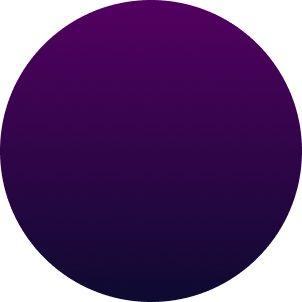
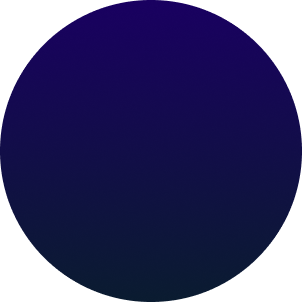
Redesign-using-React-Bootstrap

diff --git a/src/components/auth/Register.jsx b/src/components/auth/Register.jsx
@@ -28,7 +28,16 @@ const Register = () => {
 
   return (
     <div className="d-flex vh-100 main-div1 main-div4">
-      <>
+      <div>
+        <img className="main-div12" src="/images/Ellipse1.png" alt="Circle" />
+      </div>
+      <div>
+        <img className="main-div13" src="/images/Ellipse2.png" alt="Circle" />
+      </div>
+      <div>
+        <img className="main-div10" src="/images/RolltheCarpet.png" alt="Rollthecarpet" />
+      </div>
+      {/* <>
         <div>
           <img
             src="/images/singupmain2.JPG"
@@ -36,16 +45,16 @@ const Register = () => {
             alt="signup"
           />
         </div>
-      </>
-      <div className="border border-black p-5  flex-column align-items-center main-div5">
-        <div className="text-center fs-2 mb-3 text-black">
+      </> */}
+      <div className="border border-white p-5  flex-column align-items-center main-div5">
+        <div className="text-center fs-2 mb-3 text-white">
           SignUp Your Account
         </div>
         <Form onSubmit={handleSubmit(onSubmit)} className="w-100 mt-4">
           <Form.Group controlId="name">
-            <Form.Label className="mt-2">Full Name</Form.Label>
+            <Form.Label className="mt-2 text-white">Full Name</Form.Label>
             <Form.Control
-              className="mt-0"
+              className="mt-0 bg-transparent placeholder-text-color"
               {...register("name", {
                 required: "Please enter your full name",
                 pattern: {
@@ -54,7 +63,7 @@ const Register = () => {
                 },
               })}
               type="text"
-              placeholder="Enter Your Full Name"
+              placeholder="Full Name"
             />
             {errors.name && (
               <span className="text-danger text-left">
@@ -64,9 +73,9 @@ const Register = () => {
           </Form.Group>
 
           <Form.Group controlId="email">
-            <Form.Label className="mt-3">Email</Form.Label>
+            <Form.Label className="mt-3 text-white">Email</Form.Label>
             <Form.Control
-              className="mt-0"
+              className="mt-0 bg-transparent placeholder-text-color"
               {...register("email", {
                 required: "Please enter your email",
                 pattern: {
@@ -76,7 +85,7 @@ const Register = () => {
                 },
               })}
               type="email"
-              placeholder="Enter Your Email"
+              placeholder="Email"
             />
             {errors.email && (
               <span className="text-danger text-left">
@@ -86,9 +95,9 @@ const Register = () => {
           </Form.Group>
 
           <Form.Group controlId="password">
-            <Form.Label className="mt-3 ">Password</Form.Label>
+            <Form.Label className="mt-3 text-white ">Password</Form.Label>
             <Form.Control
-              className="mt-0"
+              className="mt-0 bg-transparent placeholder-text-color"
               {...register("password", {
                 required: "Please enter your password",
                 minLength: {
@@ -105,7 +114,7 @@ const Register = () => {
                 },
               })}
               type="password"
-              placeholder="********"
+              placeholder="Password"
             />
             {errors.password && (
               <span className="text-danger text-left">
@@ -125,7 +134,7 @@ const Register = () => {
         </Form>
 
         <Link
-          className="text-decoration-none text-black mx-auto d-flex justify-content-center m-3"
+          className="text-decoration-none text-white mx-auto d-flex justify-content-center m-3"
           to="/"
         >
           Already have an account? Login here.

diff --git a/src/App.css b/src/App.css
@@ -25,6 +25,7 @@
   margin-bottom: 100px;
   border-radius: 10px;
   position: fixed;
+  backdrop-filter: blur(10px);
 }
 .main-div3 {
   background-image: linear-gradient(79deg, #7439db, #7439db 50%, #b85f1f);
@@ -32,7 +33,7 @@
 
 /* Signup Page react-bootstrap */
 .main-div4 {
-  background-color: rgba(255, 255, 255, 0.5);;
+  background-color: #0F0F0F;
 }
 
 .main-div5 {
@@ -40,10 +41,11 @@
   display: flex;
   align-items: center;
   justify-content: center;
-  margin-left: 300px;
-  margin-top: 100px;
+  margin-left: -1px;
+  margin-top: 80px;
   margin-bottom: 100px;
   border-radius: 10px;
+  backdrop-filter: blur(10px);
 }
 
 .main-div7{
@@ -52,7 +54,7 @@
 
 .main-div8{
   margin-top: 10%;
-  margin-left: 300%;
+  margin-left: 350%;
 }
 
 .main-div9 {
@@ -62,7 +64,7 @@
 
 .main-div10 {
   margin-top: 55%;
-  margin-left: -50%;
+  margin-left: -25%;
 }
 
 .main-div11 {
@@ -72,6 +74,16 @@
   display: flex;
   align-items: center;
   justify-content: center;
+}
+
+.main-div12 {
+  margin-top: 15%;
+  margin-left: 380%;
+}
+
+.main-div13 {
+  margin-top: 320%;
+  margin-left: 565%;
 }
 
 .auth-form-container,

diff --git a/src/components/auth/Login.jsx b/src/components/auth/Login.jsx
@@ -31,10 +31,10 @@ const Login = () => {
         />
       </div> */}
       <div>
-        <img className="main-div8" src="/images/Ellipse1.png" alt="Circle" />
+        <img className="main-div8" src="/images/rellipse1.png" alt="Circle" />
       </div>
       <div>
-        <img className="main-div9" src="/images/Ellipse2.png" alt="Circle" />
+        <img className="main-div9" src="/images/rellipse2.png" alt="Circle" />
       </div>
       <div>
         <img
